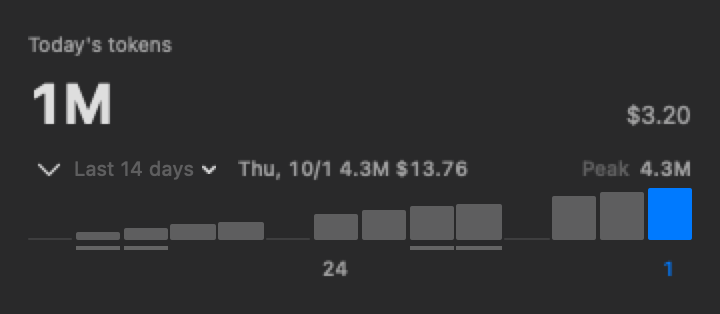
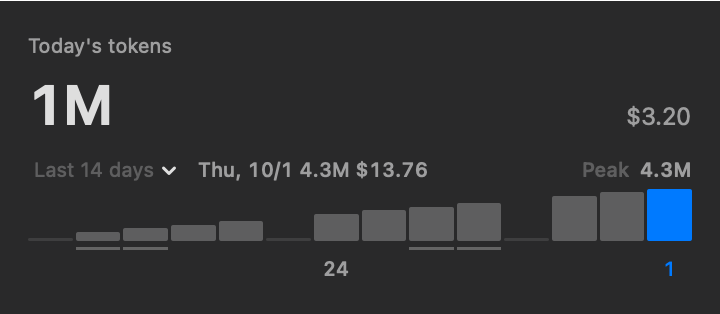
fix(trend): remove redundant custom chevron from menu label

diff --git a/Sources/PokeTokenBar/UI/PopoverView.swift b/Sources/PokeTokenBar/UI/PopoverView.swift
@@ -1136,14 +1136,9 @@ struct MonthDailyTrend: View {
                         }
                     }
                 } label: {
-                    HStack(spacing: 3) {
-                        Text(l.title(for: activeWindow))
-                            .font(.caption)
-                            .foregroundStyle(.tertiary)
-                        Image(systemName: "chevron.down")
-                            .font(.system(size: 7, weight: .semibold))
-                            .foregroundStyle(.tertiary)
-                    }
+                    Text(l.title(for: activeWindow))
+                        .font(.caption)
+                        .foregroundStyle(.tertiary)
                 }
                 .menuStyle(.borderlessButton)
                 .fixedSize()
